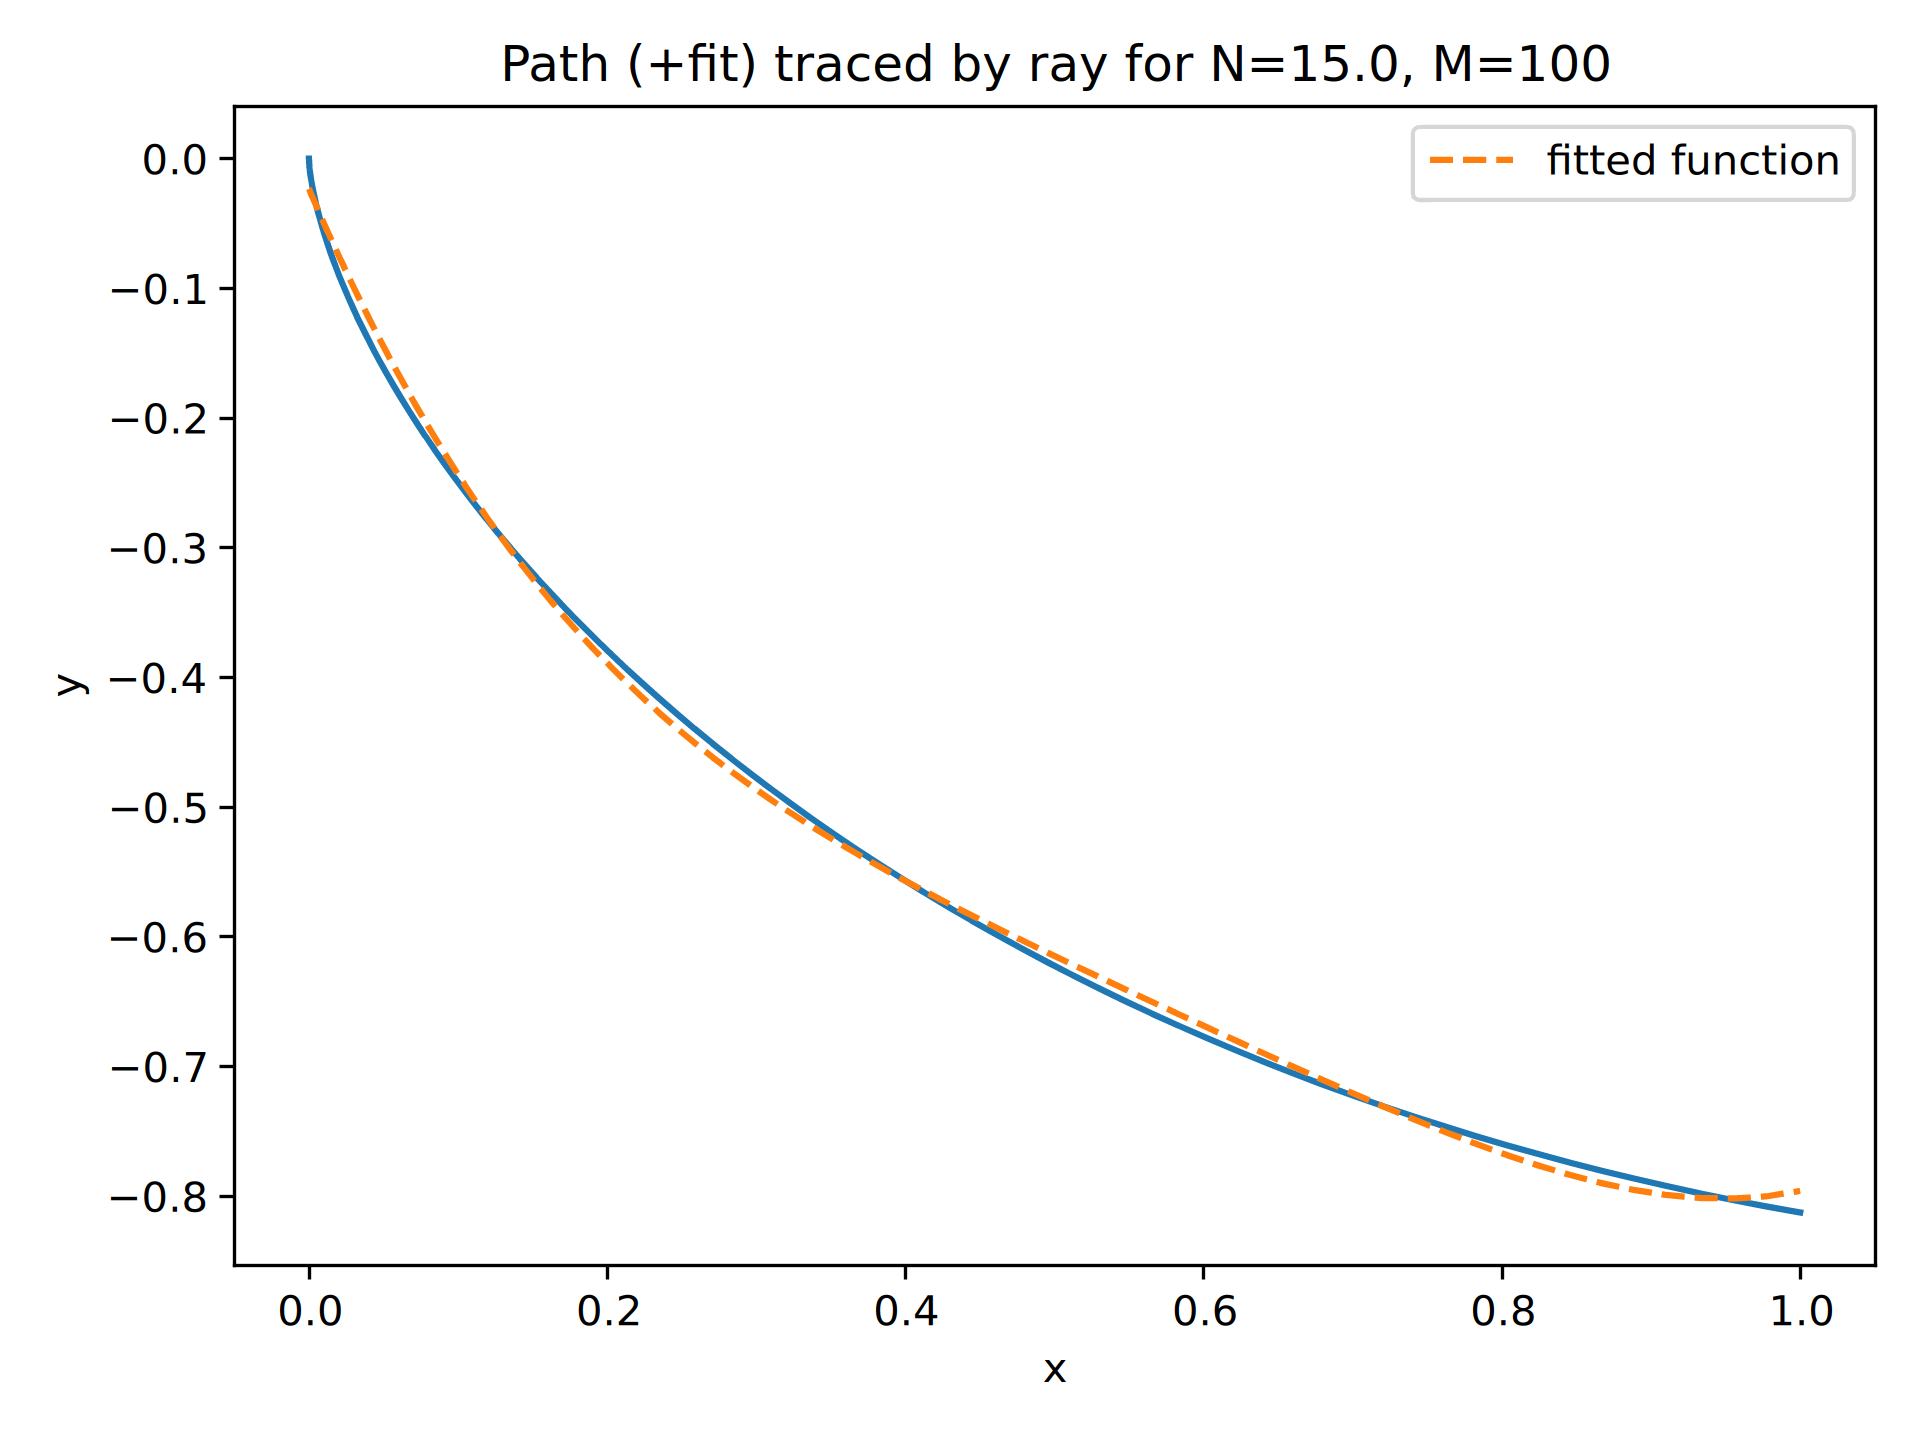
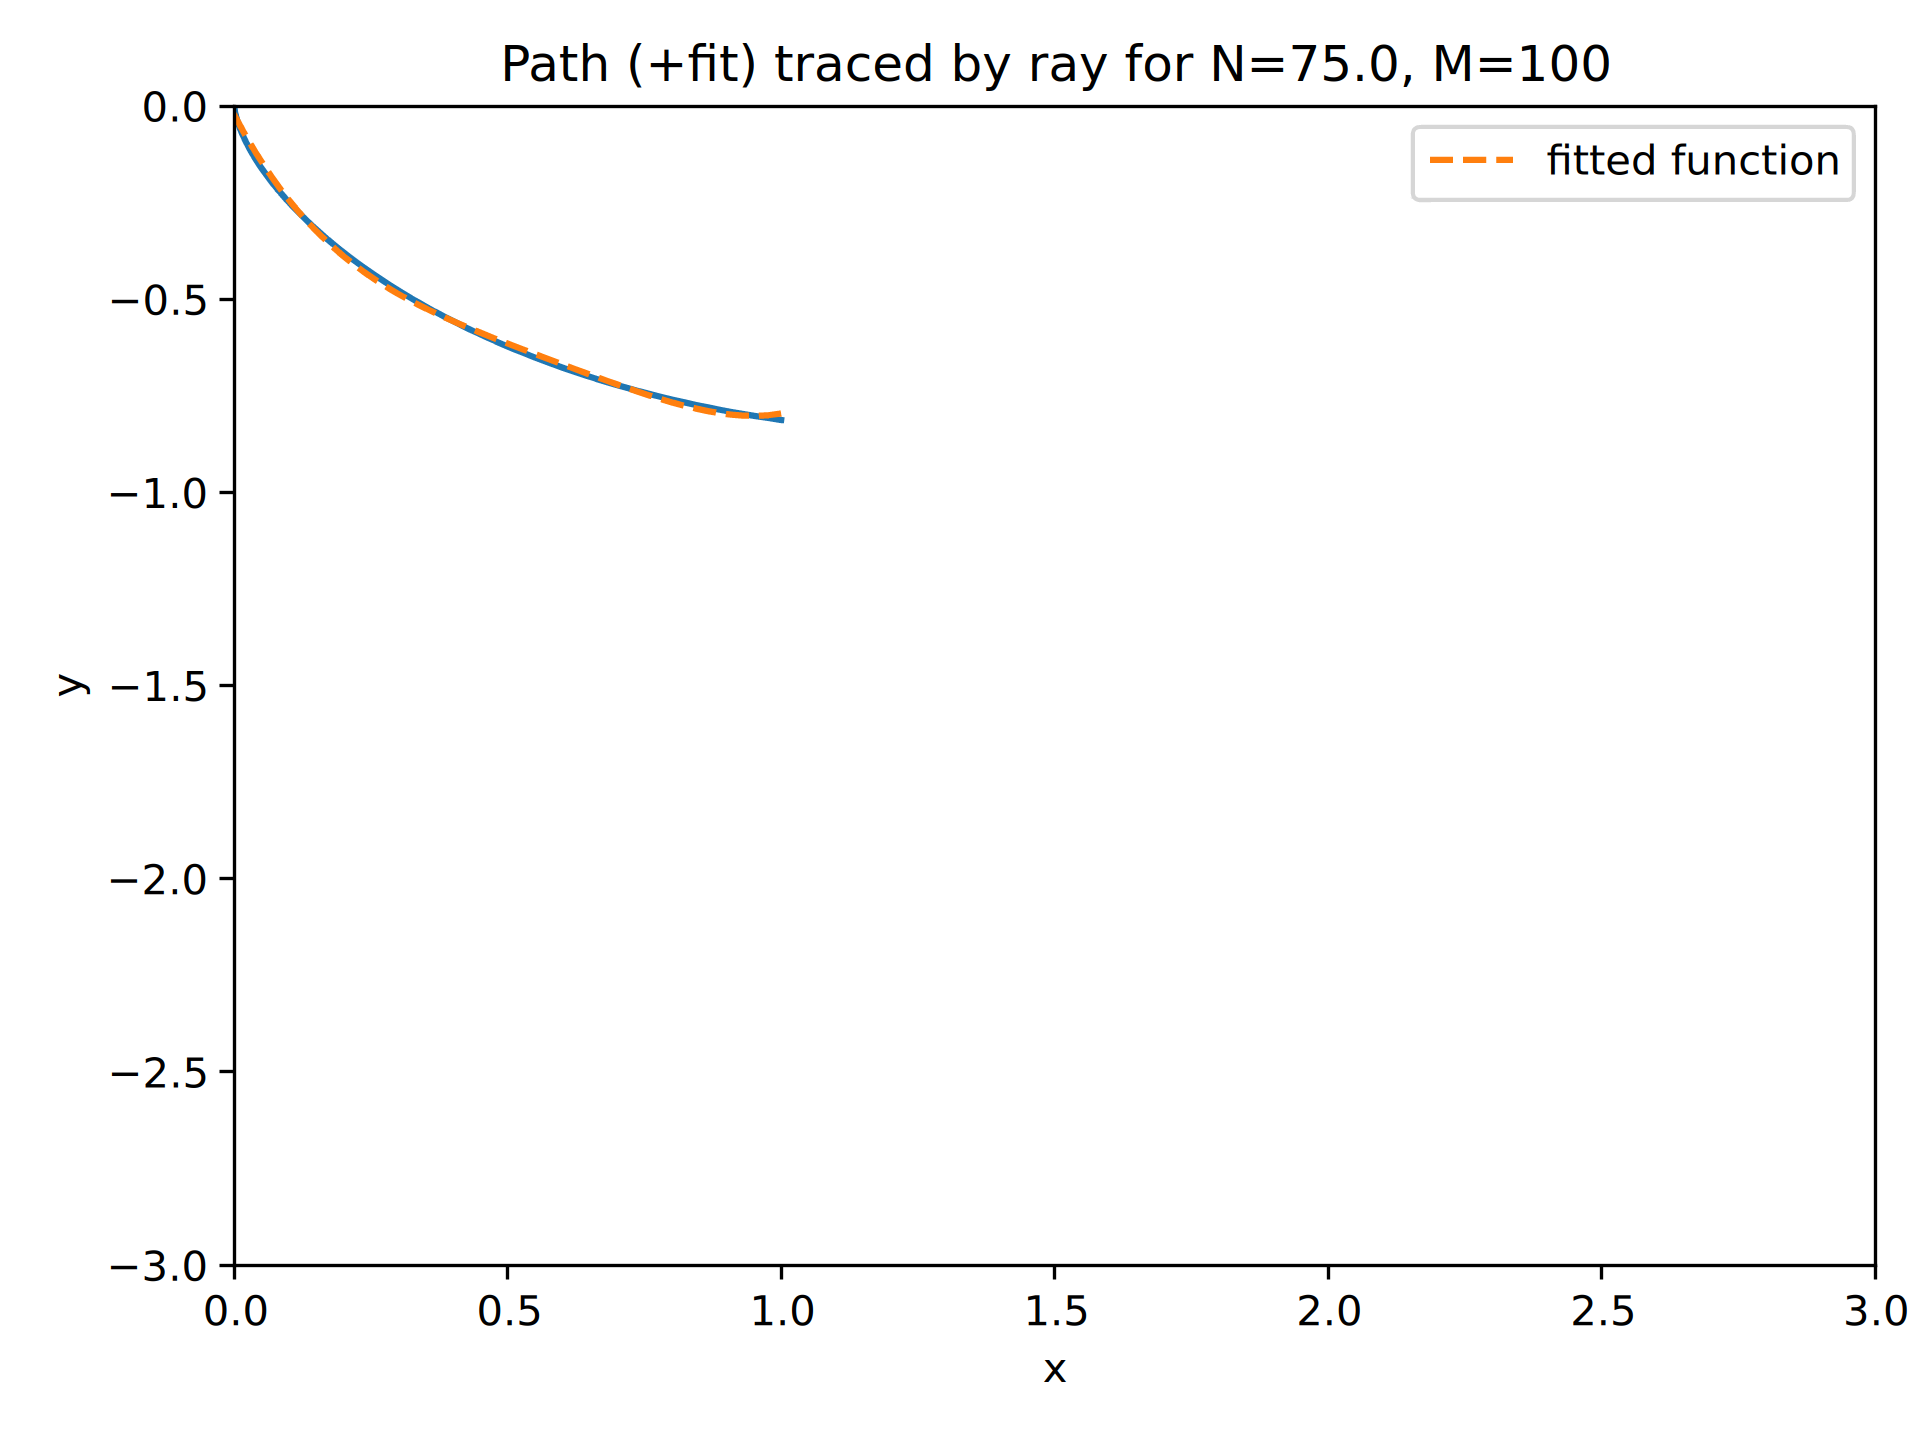
Fix angles

diff --git a/investigation/main.py b/investigation/main.py
@@ -94,7 +94,7 @@ if __name__ == "__main__":
     mpl.use("module://mplcairo.gtk")
 
     raw_data = []
-    angles = np.linspace(5, 85, 17)
+    angles = np.linspace(5, 85, 17)[::-1]
     for it, y2 in enumerate(np.linspace(0.5, 3, 17)):
         # for it, y2 in [(0, 1)]:
         x, y = cycloid(1, y2)
@@ -113,6 +113,9 @@ if __name__ == "__main__":
         plt.ylabel("y")
         plt.tight_layout()
         plt.legend()
+
+        plt.xlim(0, 3)
+        plt.ylim(-3, 0)
 
         plt.savefig(f"{PATH}/fitted_data{it}.png", dpi=300)
         plt.clf()
